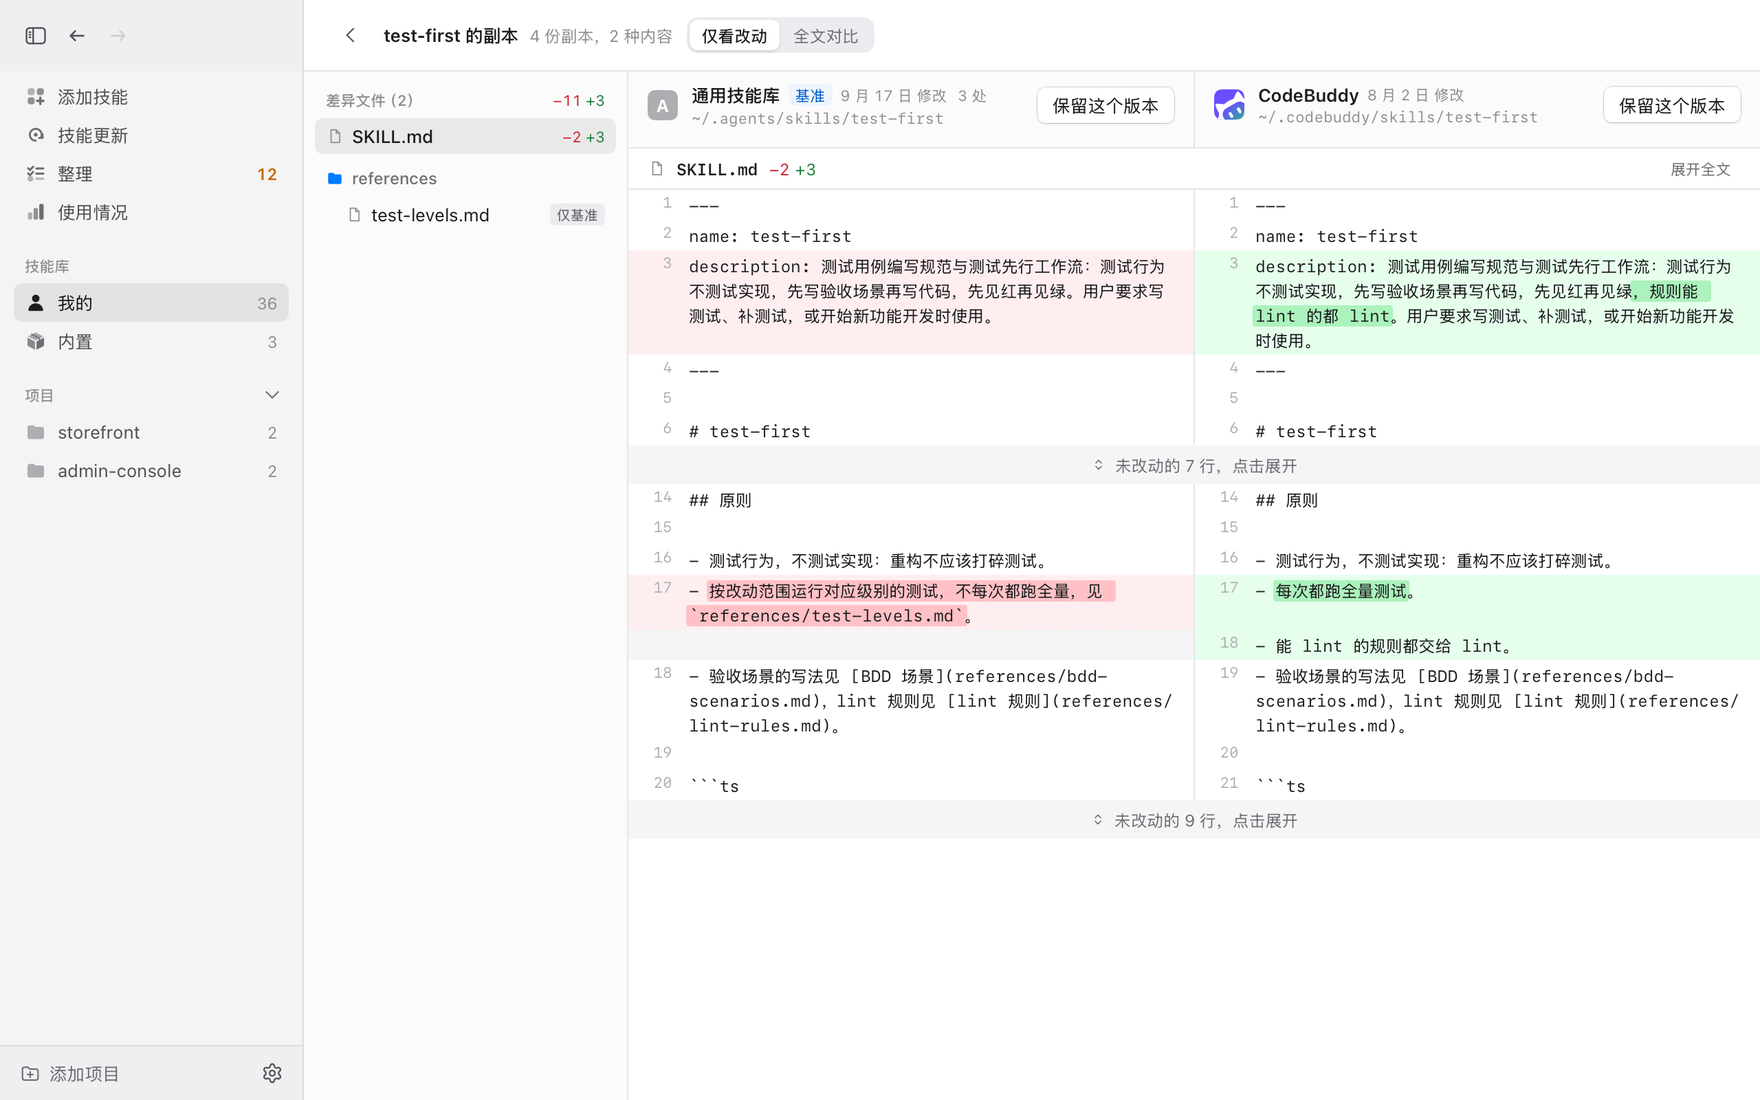
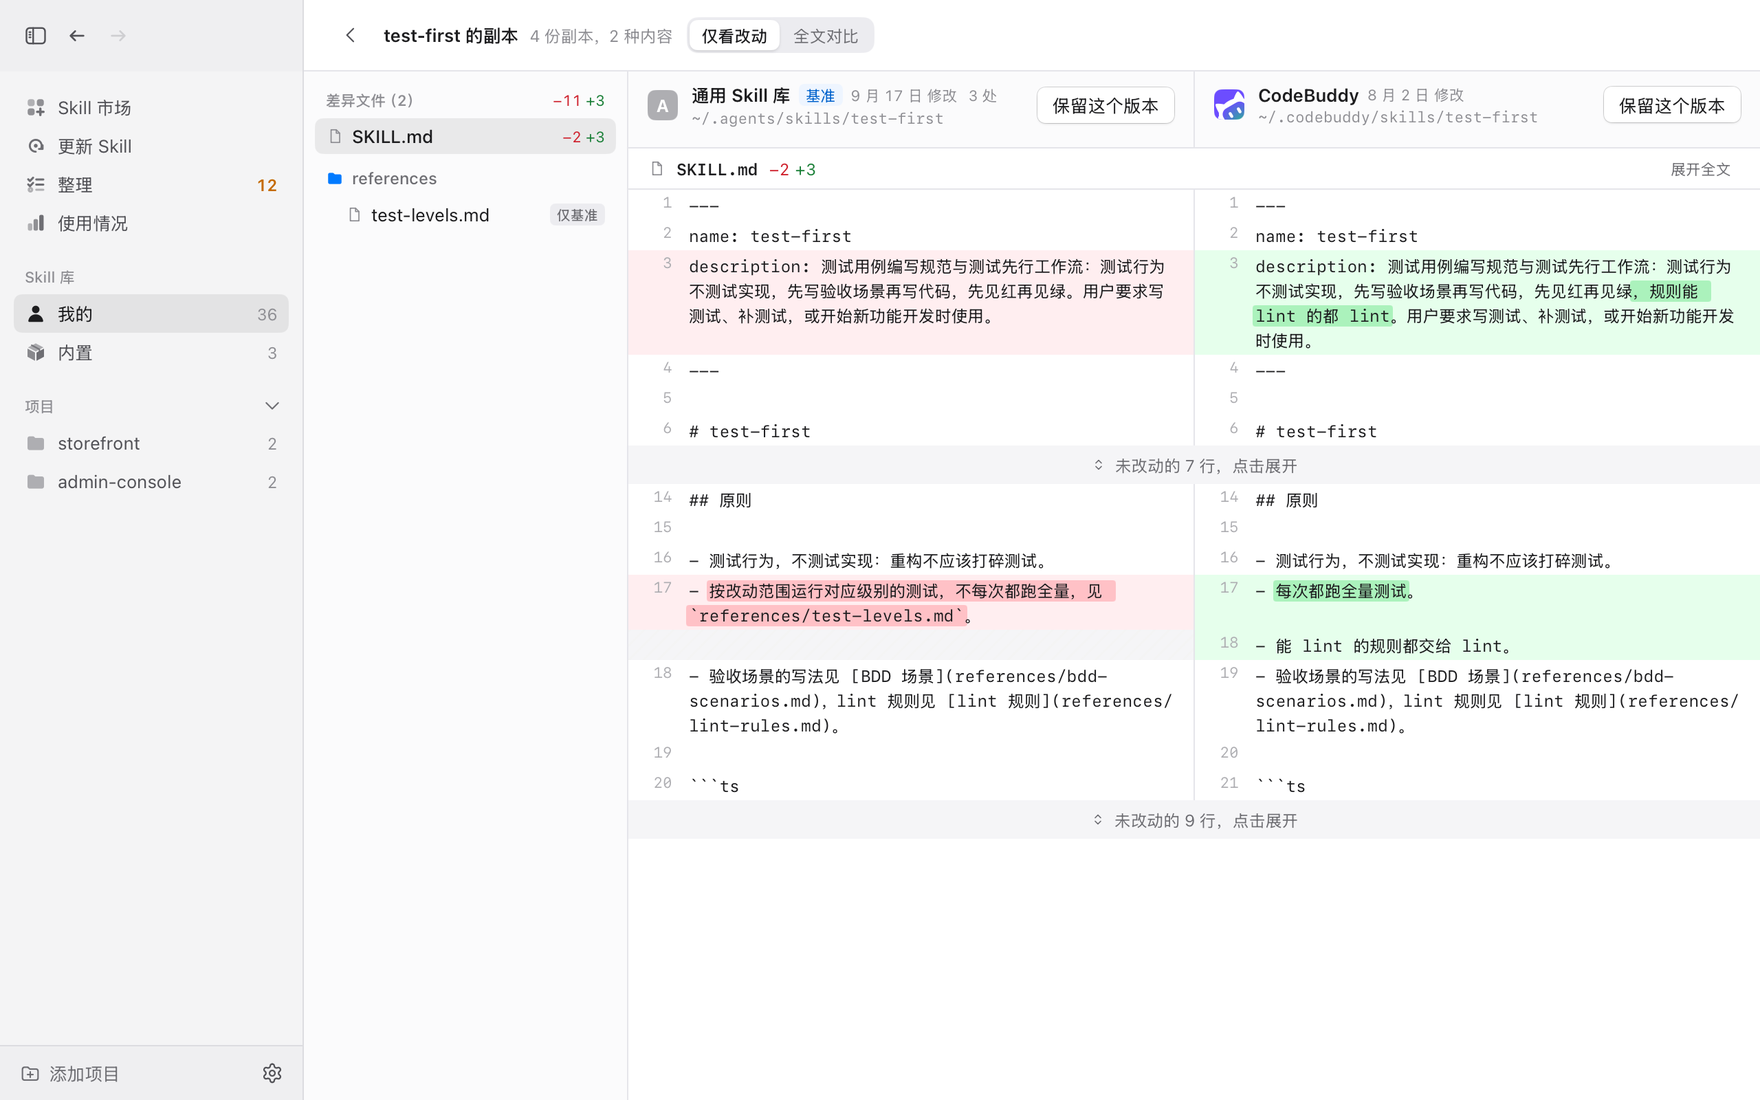
docs: use the word Skill in the Chinese README and refresh its screenshots

Changed region(s): [[0.0, 0.0618, 0.0938, 0.4636], [0.4062, 0.0618, 0.5625, 0.0927]]

diff --git a/README.zh-CN.md b/README.zh-CN.md
@@ -2,37 +2,37 @@
 
 [English](README.md) · 中文
 
-**一个 Mac 应用，管好你用的所有 AI Agent 的技能（skill）。** 哪个 Agent 读得到哪个技能一目了然；可以按 Agent 单独开关，添加和更新前先过一遍安全检查；散落在 `~/.claude`、`~/.codex`、`~/.cursor` 等目录里的重复副本和断掉的链接，也能一次清理干净。
+**一个 Mac 应用，管好你用的所有 AI Agent 的 Skill。** 哪个 Agent 读得到哪个 Skill 一目了然；可以按 Agent 单独开关，添加和更新前先过一遍安全检查；散落在 `~/.claude`、`~/.codex`、`~/.cursor` 等目录里的重复副本和断掉的链接，也能一次清理干净。
 
 免费开源（MIT）。支持 macOS 12 及以上，Apple Silicon 和 Intel 都能用。不用注册账号，没有遥测。[下载最新版](https://github.com/DBAAZzz/skill-stow/releases/latest)，第一次打开的步骤见[安装](#安装)。
 
-![Skill Stow：「我的技能」与右侧详情栏](docs/screenshots/zh/main.png)
+![Skill Stow：「我的 Skill」与右侧详情栏](docs/screenshots/zh/main.png)
 
 ## 能做什么
 
-### 所有技能，一处看全
+### 所有 Skill，一处看全
 
-扫描 32 个 Agent 的技能目录和你的项目，标出每个技能到底被哪些 Agent 读到：来自通用技能库（`~/.agents/skills`）、某个 Agent 自己的目录，还是项目里。可以用卡片浏览，也可以切到看板，一个 Agent 一列。用 `npx skills` 或 Agent 插件一起装的技能会归成一个集合。
+扫描 32 个 Agent 的 Skill 目录和你的项目，标出每个 Skill 到底被哪些 Agent 读到：来自通用 Skill 库（`~/.agents/skills`）、某个 Agent 自己的目录，还是项目里。可以用卡片浏览，也可以切到看板，一个 Agent 一列。用 `npx skills` 或 Agent 插件一起装的 Skill 会归成一个集合。
 
 项目会从 Claude Code、Codex 和 VS Code 系编辑器的使用记录里自动找出来，也可以手动添加任意文件夹。
 
 ![看板：一个 Agent 一列](docs/screenshots/zh/board.png)
 
-### 按 Agent 开关单个技能
+### 按 Agent 开关单个 Skill
 
-在 Claude Code、Codex、Gemini CLI、OpenCode 或 ZCode 上拨一下开关，应用会直接改这个 Agent 自己的配置文件，Agent 那边看到的状态和这里完全一致。「添加到其他 Agent…」会把技能链接进其他 Agent 的目录；「移除」只删本应用建的链接。
+在 Claude Code、Codex、Gemini CLI、OpenCode 或 ZCode 上拨一下开关，应用会直接改这个 Agent 自己的配置文件，Agent 那边看到的状态和这里完全一致。「添加到其他 Agent…」会把 Skill 链接进其他 Agent 的目录；「移除」只删本应用建的链接。
 
 ### 从哪都能加，加之前先检查
 
-粘贴 GitHub 链接、`owner/repo`、`npx skills add …` 命令或网站地址，或者直接把文件夹、`.zip` 拖进窗口。选好要加哪些技能、放到哪里：通用技能库、指定的 Agent，或者某个项目。
+粘贴 GitHub 链接、`owner/repo`、`npx skills add …` 命令或网站地址，或者直接把文件夹、`.zip` 拖进窗口。选好要加哪些 Skill、放到哪里：通用 Skill 库、指定的 Agent，或者某个项目。
 
-每个技能加进来之前都会先做本地安全检查；GitHub 来源还会同时列出 skills.sh 的安全审计。高风险或没能检查完的技能，要你点「仍然添加」才会加进来。
+每个 Skill 加进来之前都会先做本地安全检查；GitHub 来源还会同时列出 skills.sh 的安全审计。高风险或没能检查完的 Skill，要你点「仍然添加」才会加进来。
 
-![添加技能：从文件夹里挑技能，附检查结果](docs/screenshots/zh/add.png)
+![添加 Skill：从文件夹里挑 Skill，附检查结果](docs/screenshots/zh/add.png)
 
 ### 本地安全检查
 
-离线分析器会读每个技能的所有文件，包括 SKILL.md、脚本和参考资料，标出这类问题：
+离线分析器会读每个 Skill 的所有文件，包括 SKILL.md、脚本和参考资料，标出这类问题：
 
 - 脚本下载远程代码直接运行、反弹 shell、解码后执行
 - 读取 SSH 私钥或凭据文件，或把密钥发到外部地址
@@ -40,22 +40,22 @@
 - 看不见的字符、会改变显示顺序的字符，以及藏在注释里的指令
 - 文件里像是真的密钥、大范围删除文件、改登录项或 shell 配置
 
-每条结果都能直接跳到对应的那一行。看过之后勾上「已看过」；技能内容一变，它会重新出现。首次打开会在后台检查全部技能，之后哪个技能的文件变了，就标成「已过期」并重新检查。这是基于规则的检查，不能保证绝对安全。
+每条结果都能直接跳到对应的那一行。看过之后勾上「已看过」；Skill 内容一变，它会重新出现。首次打开会在后台检查全部 Skill，之后哪个 Skill 的文件变了，就标成「已过期」并重新检查。这是基于规则的检查，不能保证绝对安全。
 
 ![安全检查：高风险结果和对应的代码行](docs/screenshots/zh/security.png)
 
 ### 更新不踩坑
 
-从 GitHub 添加的技能会记下来源 commit。「技能更新」列出上游有新 commit 的技能，「查看差异」会在改动之前逐个文件展示差异。
+从 GitHub 添加的 Skill 会记下来源 commit。「更新 Skill」列出上游有新 commit 的 Skill，「查看差异」会在改动之前逐个文件展示差异。
 
-- 你在本地改过的技能不会被直接覆盖，会等你对比确认。
+- 你在本地改过的 Skill 不会被直接覆盖，会等你对比确认。
 - 新版本有高风险或没能检查完时，要你点「仍然更新」才会更新。
 - 旧版本默认移到废纸篓，随时能放回原处。
-- 只在你点「检查技能更新」时才联网检查。网络受限时可以设代理，也可以用本机的 `gh` 登录提高 API 限额。
+- 只在你点「检查 Skill 更新」时才联网检查。网络受限时可以设代理，也可以用本机的 `gh` 登录提高 API 限额。
 
-装在项目里的技能暂时不参与更新。
+装在项目里的 Skill 暂时不参与更新。
 
-![技能更新：可更新、需确认、需处理](docs/screenshots/zh/updates.png)
+![更新 Skill：可更新、需确认、需处理](docs/screenshots/zh/updates.png)
 
 ### 整理
 
@@ -65,25 +65,25 @@
 - 内容已经不一样的副本，左右对比后留下想要的那份
 - 重复的链接和断掉的链接
 - SKILL.md 里引用了不存在的文件
-- 技能删了、安装记录还留着
-- 全局链接指向项目里的技能，项目一挪就断
+- Skill 删了、安装记录还留着
+- 全局链接指向项目里的 Skill，项目一挪就断
 
 <p>
   <img src="docs/screenshots/zh/tidy.png" width="49%" alt="整理：所有问题列在一处">
-  <img src="docs/screenshots/zh/compare.png" width="49%" alt="左右对比同一技能的两份副本">
+  <img src="docs/screenshots/zh/compare.png" width="49%" alt="左右对比同一 Skill 的两份副本">
 </p>
 
 ### 使用情况
 
-根据本机 Claude Code 和 Codex 的会话记录，统计每个技能被调用了多少次：哪些常用、哪些从没用过，一眼就能看出来，方便清理。其他 Agent 没有留下调用记录。
+根据本机 Claude Code 和 Codex 的会话记录，统计每个 Skill 被调用了多少次：哪些常用、哪些从没用过，一眼就能看出来，方便清理。其他 Agent 没有留下调用记录。
 
-![使用情况：近 8 周和每个技能的调用](docs/screenshots/zh/usage.png)
+![使用情况：近 8 周和每个 Skill 的调用](docs/screenshots/zh/usage.png)
 
 ### 用起来像原生 Mac 应用
 
-- 在任何页面按 ⌘K，都能搜技能的名称、简介和正文，也能直接跳到整理、技能更新或设置。中文界面下打拼音也能搜到。
-- 界面跟着磁盘走：在终端里装了技能，不用刷新就会出现。
-- 删除的技能进废纸篓，提示条上就有「撤销」（⌘Z）。
+- 在任何页面按 ⌘K，都能搜 Skill 的名称、简介和正文，也能直接跳到整理、更新 Skill 或设置。中文界面下打拼音也能搜到。
+- 界面跟着磁盘走：在终端里装了 Skill，不用刷新就会出现。
+- 删除的 Skill 进废纸篓，提示条上就有「撤销」（⌘Z）。
 - 支持前进后退（⌘[ 和 ⌘]）、拖放、浅色和深色外观，界面有简体中文和英文。
 
 ![⌘K 搜索名称、简介和正文](docs/screenshots/zh/search.png)
@@ -109,9 +109,9 @@
 
 ## 支持的 Agent
 
-能扫描 32 个 Agent 的技能目录，包括 Claude Code、Codex、Cursor、Gemini CLI、GitHub Copilot、OpenCode、Windsurf、Cline、Kiro、Trae、Qwen Code、Qoder、CodeBuddy、ZCode 等，完整列表见 [`app/internal/library/agents.go`](app/internal/library/agents.go)。没认出你用的 Agent，可以在「设置 › Agent 管理」里手动添加它的技能目录。
+能扫描 32 个 Agent 的 Skill 目录，包括 Claude Code、Codex、Cursor、Gemini CLI、GitHub Copilot、OpenCode、Windsurf、Cline、Kiro、Trae、Qwen Code、Qoder、CodeBuddy、ZCode 等，完整列表见 [`app/internal/library/agents.go`](app/internal/library/agents.go)。没认出你用的 Agent，可以在「设置 › Agent 管理」里手动添加它的 Skill 目录。
 
-单个技能的启用、停用要靠 Agent 自己的配置支持，目前有 5 个：
+单个 Skill 的启用、停用要靠 Agent 自己的配置支持，目前有 5 个：
 
 | Agent | 写入的配置 |
 |---|---|
@@ -121,17 +121,17 @@
 | OpenCode | `~/.config/opencode/opencode.jsonc` 或 `opencode.json` |
 | ZCode | `~/.zcode/cli/config.json` |
 
-其他 Agent 里的技能显示为「始终启用」。配置格式认不出来时状态显示为「未知」，不会写入。
+其他 Agent 里的 Skill 显示为「始终启用」。配置格式认不出来时状态显示为「未知」，不会写入。
 
 ## 会改动本机哪些文件
 
 用真实数据运行时，应用会写本机文件：
 
-- 启用、停用会修改上表中的 Agent 配置，只改技能相关的部分，其余内容保持原样。
-- 「添加到其他 Agent…」会在 Agent 的技能目录里建链接；「移除」只删本应用建的链接。
-- 添加、更新、删除技能，以及「整理」里的处理，都会改动技能目录。删掉的技能和收成一份时多出来的副本会进废纸篓；更新后的旧版本也一样，除非你设成了直接删除。
+- 启用、停用会修改上表中的 Agent 配置，只改 Skill 相关的部分，其余内容保持原样。
+- 「添加到其他 Agent…」会在 Agent 的 Skill 目录里建链接；「移除」只删本应用建的链接。
+- 添加、更新、删除 Skill，以及「整理」里的处理，都会改动 Skill 目录。删掉的 Skill 和收成一份时多出来的副本会进废纸篓；更新后的旧版本也一样，除非你设成了直接删除。
 
-应用自己的设置、记录和事件日志（`logs/`，上限约 1 MB）放在 `~/Library/Application Support/Skill Stow/`。日志只记应用改了什么、哪里失败了，不含技能内容、配置原文和 token。遇到问题时用「帮助 › 反馈问题…」，诊断信息会先给你预览再复制。
+应用自己的设置、记录和事件日志（`logs/`，上限约 1 MB）放在 `~/Library/Application Support/Skill Stow/`。日志只记应用改了什么、哪里失败了，不含 Skill 内容、配置原文和 token。遇到问题时用「帮助 › 反馈问题…」，诊断信息会先给你预览再复制。
 
 ## 隐私与联网
 
@@ -139,12 +139,12 @@
 
 只有下面这些情况会联网：
 
-- **从链接添加技能**：从 GitHub（`api.github.com`、`raw.githubusercontent.com`、`codeload.github.com`）、skills.sh（文件快照和安全审计）或你填的网站读取技能。
-- **检查或安装技能更新**：向 GitHub 查询最新的 commit。只在你点「检查技能更新」时进行。
+- **从链接添加 Skill**：从 GitHub（`api.github.com`、`raw.githubusercontent.com`、`codeload.github.com`）、skills.sh（文件快照和安全审计）或你填的网站读取 Skill。
+- **检查或安装 Skill 更新**：向 GitHub 查询最新的 commit。只在你点「检查 Skill 更新」时进行。
 - **检查或安装应用更新**：读取 GitHub 上 Skill Stow 最新的 Release 并下载新版本。只在你点「检查应用更新…」时进行；在「设置 › 通用」里打开「自动检查更新」后，每次启动和之后每天检查一次（检查失败时一小时后再试）。
-- **来源图标**：在从 GitHub 或网站装的技能旁边显示所有者头像或网站图标。每个图标只抓一次，缓存在应用数据目录里。
+- **来源图标**：在从 GitHub 或网站装的 Skill 旁边显示所有者头像或网站图标。每个图标只抓一次，缓存在应用数据目录里。
 
-在技能更新设置里打开「使用本机 gh 登录状态」后，`gh` 的 token 只发给 GitHub，用来提高 API 限额。诊断信息只在你用「帮助 › 反馈问题…」并预览过之后才会复制。
+在「Skill 更新设置」里打开「使用本机 gh 登录状态」后，`gh` 的 token 只发给 GitHub，用来提高 API 限额。诊断信息只在你用「帮助 › 反馈问题…」并预览过之后才会复制。
 
 ## 从源码运行
 
